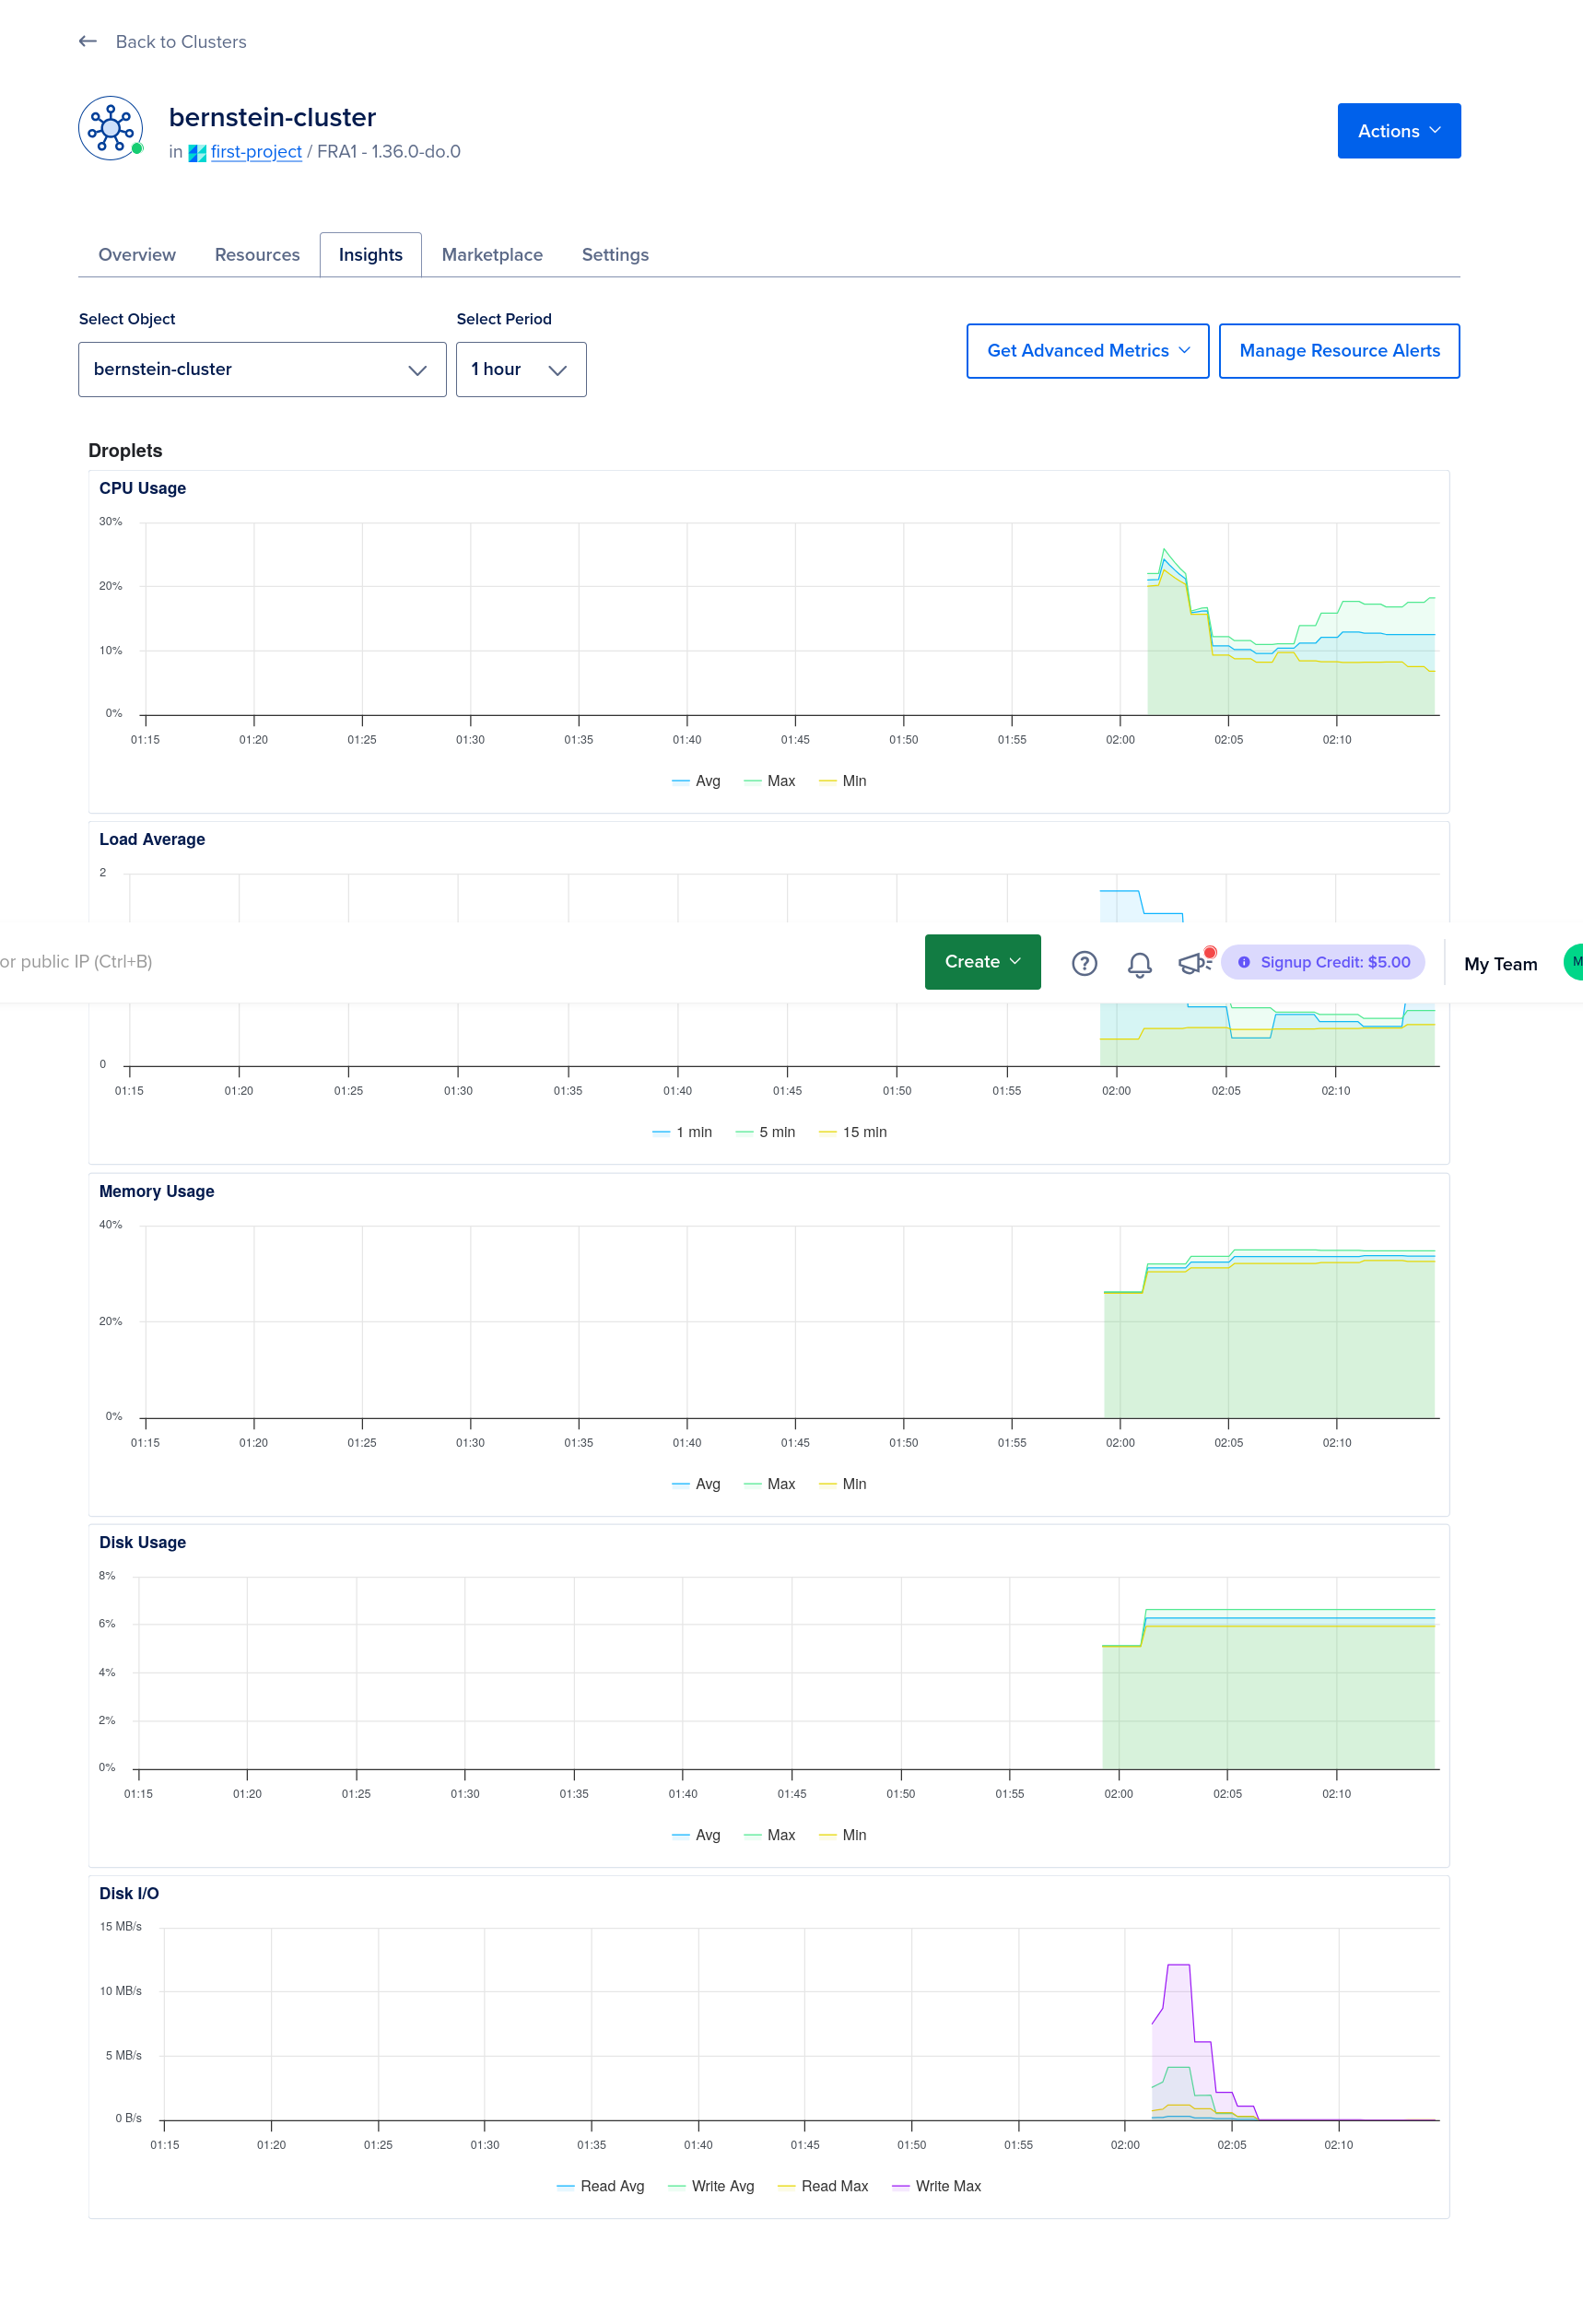
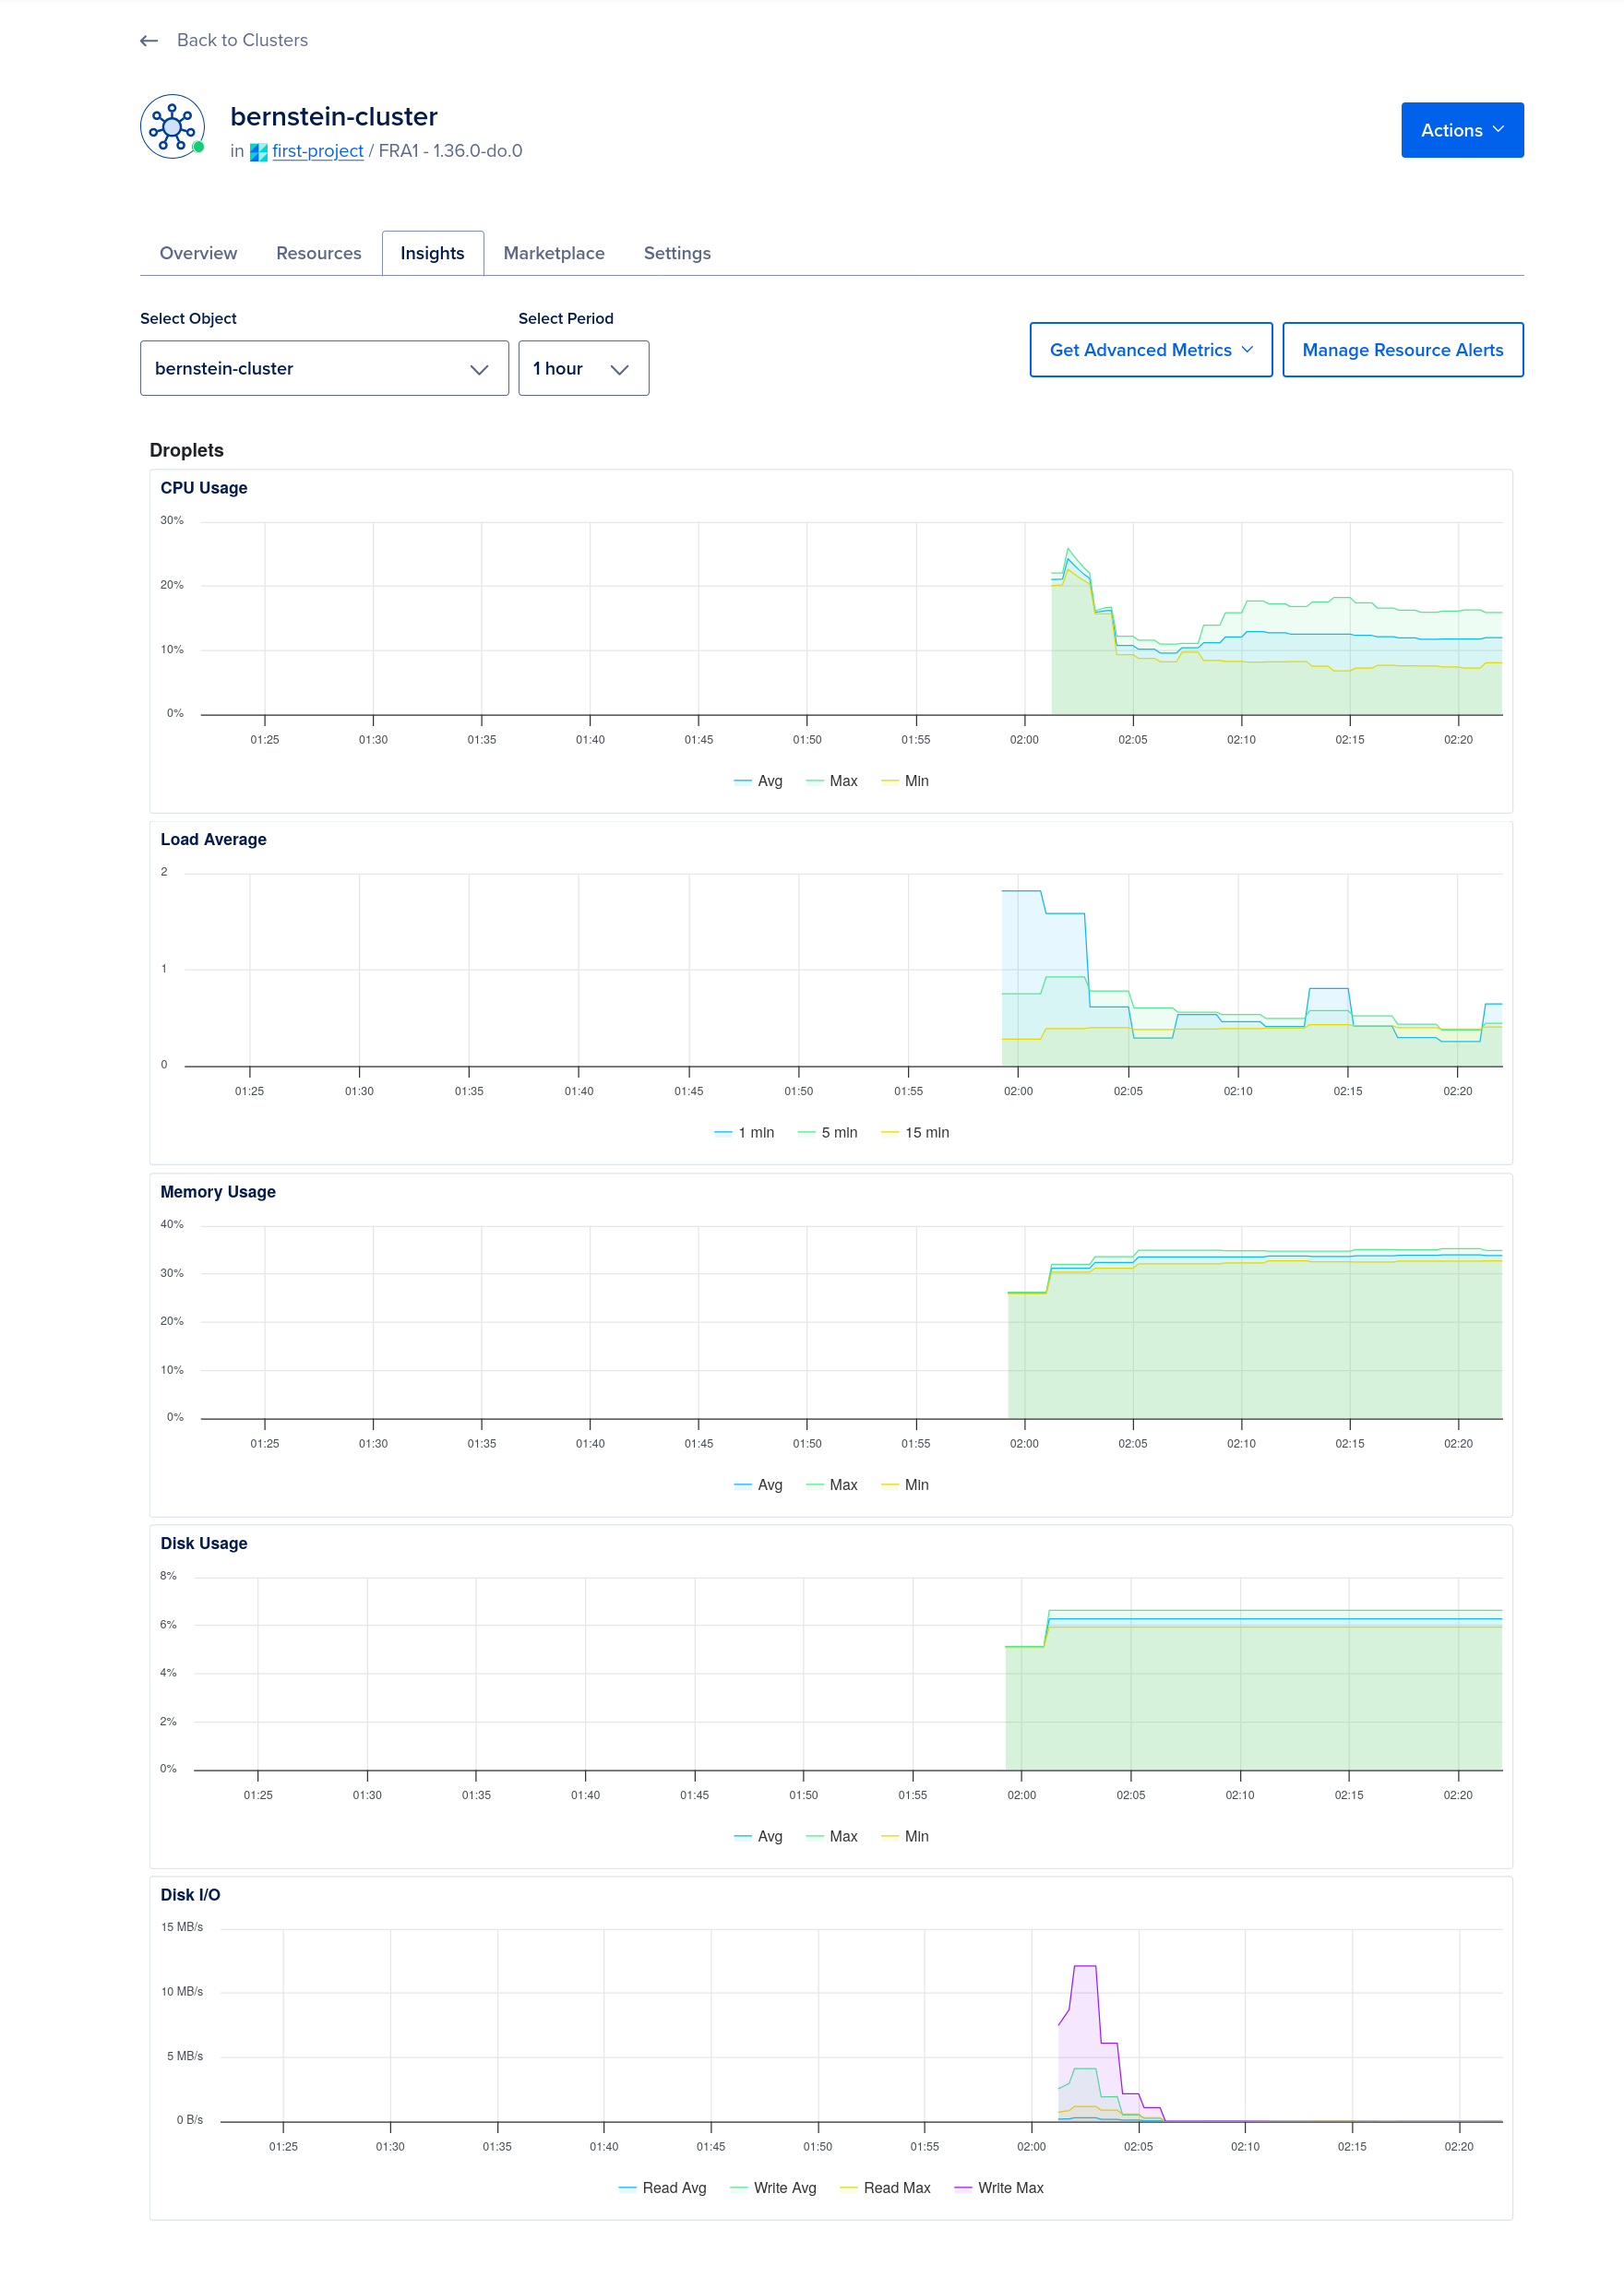
docs(readme): ajoute seminar-dop & seminar-ai, corrige les jours docker (61-65)
Reference Bernstein (K8s) et Bookworm (NLP) dans l'arbre, les sections et la roadmap.

diff --git a/README.md b/README.md
@@ -22,11 +22,13 @@ piscine/
 ├── seminar-java/            # Days 31-40 : OOP, generics, design patterns
 ├── seminar-my-first-game/   # Days 41-55 : 2D game development (libGDX)
 ├── seminar-devops/          # Days 56-60 : Administration, virtualization, automation
-├── seminar-docker/          # Days 60-67 : Containerization, orchestration, microservices
+├── seminar-docker/          # Days 61-65 : Containerization, orchestration, microservices
 ├── seminar-jenkins/         # Days 66-70 : Jenkins, CI/CD, Configuration as Code
 ├── seminar-rust/            # Days 71-95 : Rust, memory safety, ownership, full-stack
 ├── seminar-organisation/    # Days 96-110 : Organizational theory & strategy
 ├── seminar-project-management/ # T-CEN-500 : Project management
+├── seminar-dop/             # Kubernetes : multi-service orchestration (Bernstein)
+├── seminar-ai/              # NLP : book analysis pipeline (Bookworm)
 └── competition/                # 5G antenna optimization competition
 ```
 
@@ -93,7 +95,7 @@ Linux administration, advanced networking, system security, and Ansible automati
 
 <img src="https://cdn.jsdelivr.net/gh/devicons/devicon@latest/icons/debian/debian-original.svg" height="25" /> <img src="https://cdn.jsdelivr.net/gh/devicons/devicon@latest/icons/ansible/ansible-original.svg" height="25" /> <img src="assets/virtualbox.png" height="25" /> <img src="https://cdn.jsdelivr.net/gh/devicons/devicon@latest/icons/nginx/nginx-original.svg" height="25" /> <img src="https://cdn.jsdelivr.net/gh/devicons/devicon@latest/icons/mariadb/mariadb-original.svg" height="25" /> <img src="https://cdn.jsdelivr.net/gh/devicons/devicon@latest/icons/ssh/ssh-original.svg" height="25" />
 
-### [Docker Seminar — Days 60-67](seminar-docker/README.md)
+### [Docker Seminar — Days 61-65](seminar-docker/README.md)
 Containerization and microservices orchestration with Docker Compose.
 
 <img src="https://cdn.jsdelivr.net/gh/devicons/devicon@latest/icons/docker/docker-original.svg" height="25" /> <img src="https://cdn.jsdelivr.net/gh/devicons/devicon@latest/icons/nodejs/nodejs-original.svg" height="25" /> <img src="https://cdn.jsdelivr.net/gh/devicons/devicon@latest/icons/flask/flask-original.svg" height="25" /> <img src="https://cdn.jsdelivr.net/gh/devicons/devicon@latest/icons/java/java-original.svg" height="25" /> <img src="https://cdn.jsdelivr.net/gh/devicons/devicon@latest/icons/postgresql/postgresql-original.svg" height="25" /> <img src="https://cdn.jsdelivr.net/gh/devicons/devicon@latest/icons/redis/redis-original.svg" height="25" />
@@ -117,6 +119,16 @@ Organizational theory, workflow optimization, and strategic agency management.
 Holistic project management around the SmartFridge product: Gantt planning, budget, resources, and risk communication.
 
 <img src="https://cdn.jsdelivr.net/gh/devicons/devicon@latest/icons/trello/trello-plain.svg" height="25" /> <img src="https://cdn.jsdelivr.net/gh/devicons/devicon@latest/icons/slack/slack-original.svg" height="25" /> <img src="https://cdn.jsdelivr.net/gh/devicons/devicon@latest/icons/google/google-original.svg" height="25" />
+
+### [DOP — Bernstein : Kubernetes Orchestration](seminar-dop/README.md)
+Distributed voting application orchestrated on a multi-node Kubernetes cluster: Flask front-end, Redis queue, Java worker, PostgreSQL store and a Node.js dashboard, fronted by Traefik. Infrastructure provisioned on DigitalOcean (DOKS) via Terraform, reproducible dev environment with Nix.
+
+<img src="https://cdn.jsdelivr.net/gh/devicons/devicon@latest/icons/kubernetes/kubernetes-plain.svg" height="25" /> <img src="https://cdn.jsdelivr.net/gh/devicons/devicon@latest/icons/terraform/terraform-original.svg" height="25" /> <img src="https://cdn.jsdelivr.net/gh/devicons/devicon@latest/icons/traefikproxy/traefikproxy-original.svg" height="25" /> <img src="https://cdn.jsdelivr.net/gh/devicons/devicon@latest/icons/digitalocean/digitalocean-original.svg" height="25" /> <img src="https://cdn.jsdelivr.net/gh/devicons/devicon@latest/icons/nixos/nixos-original.svg" height="25" /> <img src="https://cdn.jsdelivr.net/gh/devicons/devicon@latest/icons/flask/flask-original.svg" height="25" /> <img src="https://cdn.jsdelivr.net/gh/devicons/devicon@latest/icons/redis/redis-original.svg" height="25" /> <img src="https://cdn.jsdelivr.net/gh/devicons/devicon@latest/icons/postgresql/postgresql-original.svg" height="25" />
+
+### [AI — Bookworm : NLP Pipeline](seminar-ai/README.md)
+Advanced NLP pipeline for book analysis: lexical diversity, topic extraction, entity detection, summarization and similarity, built on a reusable bootstrap foundation with a canonical CLI entrypoint.
+
+<img src="https://cdn.jsdelivr.net/gh/devicons/devicon@latest/icons/python/python-original.svg" height="25" /> <img src="https://img.shields.io/badge/NLTK-154f5b?style=flat-square" height="25" /> <img src="https://cdn.jsdelivr.net/gh/devicons/devicon@latest/icons/numpy/numpy-original.svg" height="25" /> <img src="https://img.shields.io/badge/NLP-ff4757?style=flat-square" height="25" />
 
 ### [Code Competition — 5G or not 5G?](competition/README.md)
 Algorithmic optimization for 5G antenna network deployment using CUDA.
@@ -144,16 +156,18 @@ graph TD
         S6[DevOps: Admin & Ansible]
         S7[Docker: Containerization]
         S8[Jenkins: CI/CD Pipelines]
+        S12[DOP: Kubernetes Orchestration]
     end
-    subgraph System[Phase 4: High Performance]
+    subgraph System[Phase 4: High Performance & Data]
         S9[Rust Seminar: Memory Safety]
         S10[5G Competition: CUDA Algorithms]
+        S13[Bookworm: NLP Pipeline]
     end
     subgraph Management[Phase 5: Strategy]
         S11[Organisation Seminar: Workflows]
     end
     
-    S1 --> S2 --> S3 --> S4 --> S5 --> S6 --> S7 --> S8 --> S9 --> S10 --> S11
+    S1 --> S2 --> S3 --> S4 --> S5 --> S6 --> S7 --> S8 --> S12 --> S9 --> S10 --> S13 --> S11
 ```
 
 ---